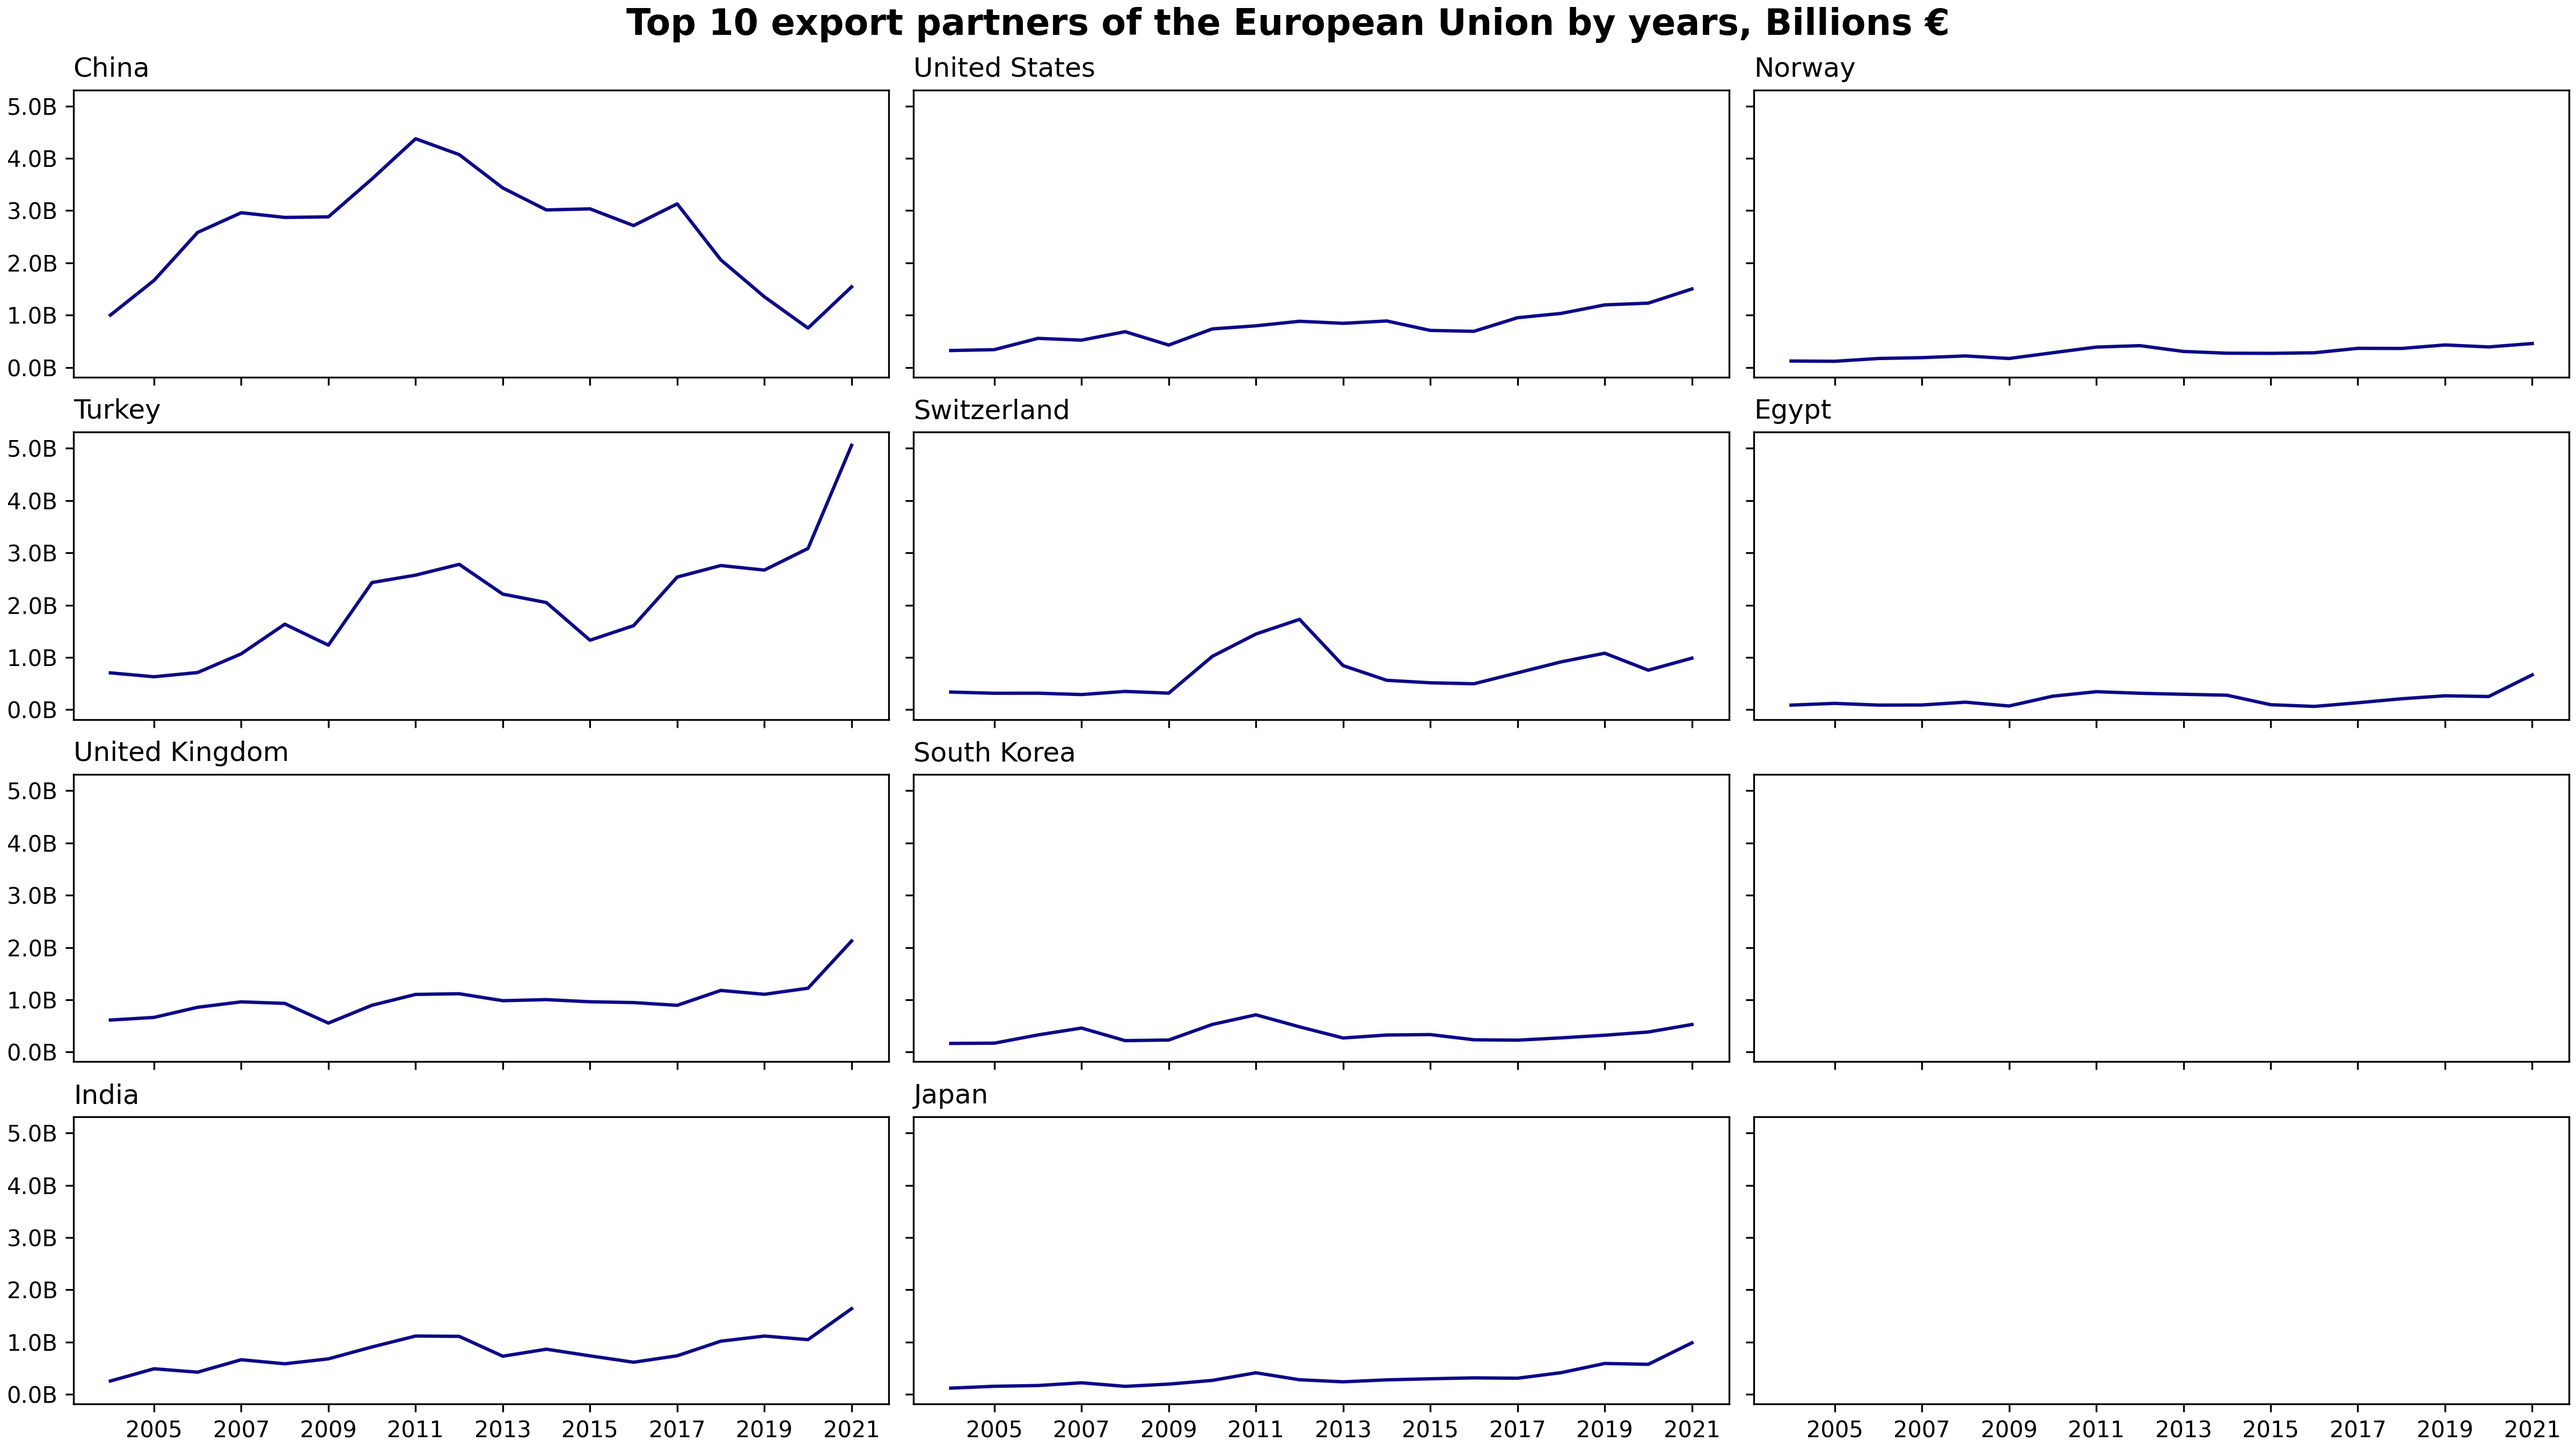
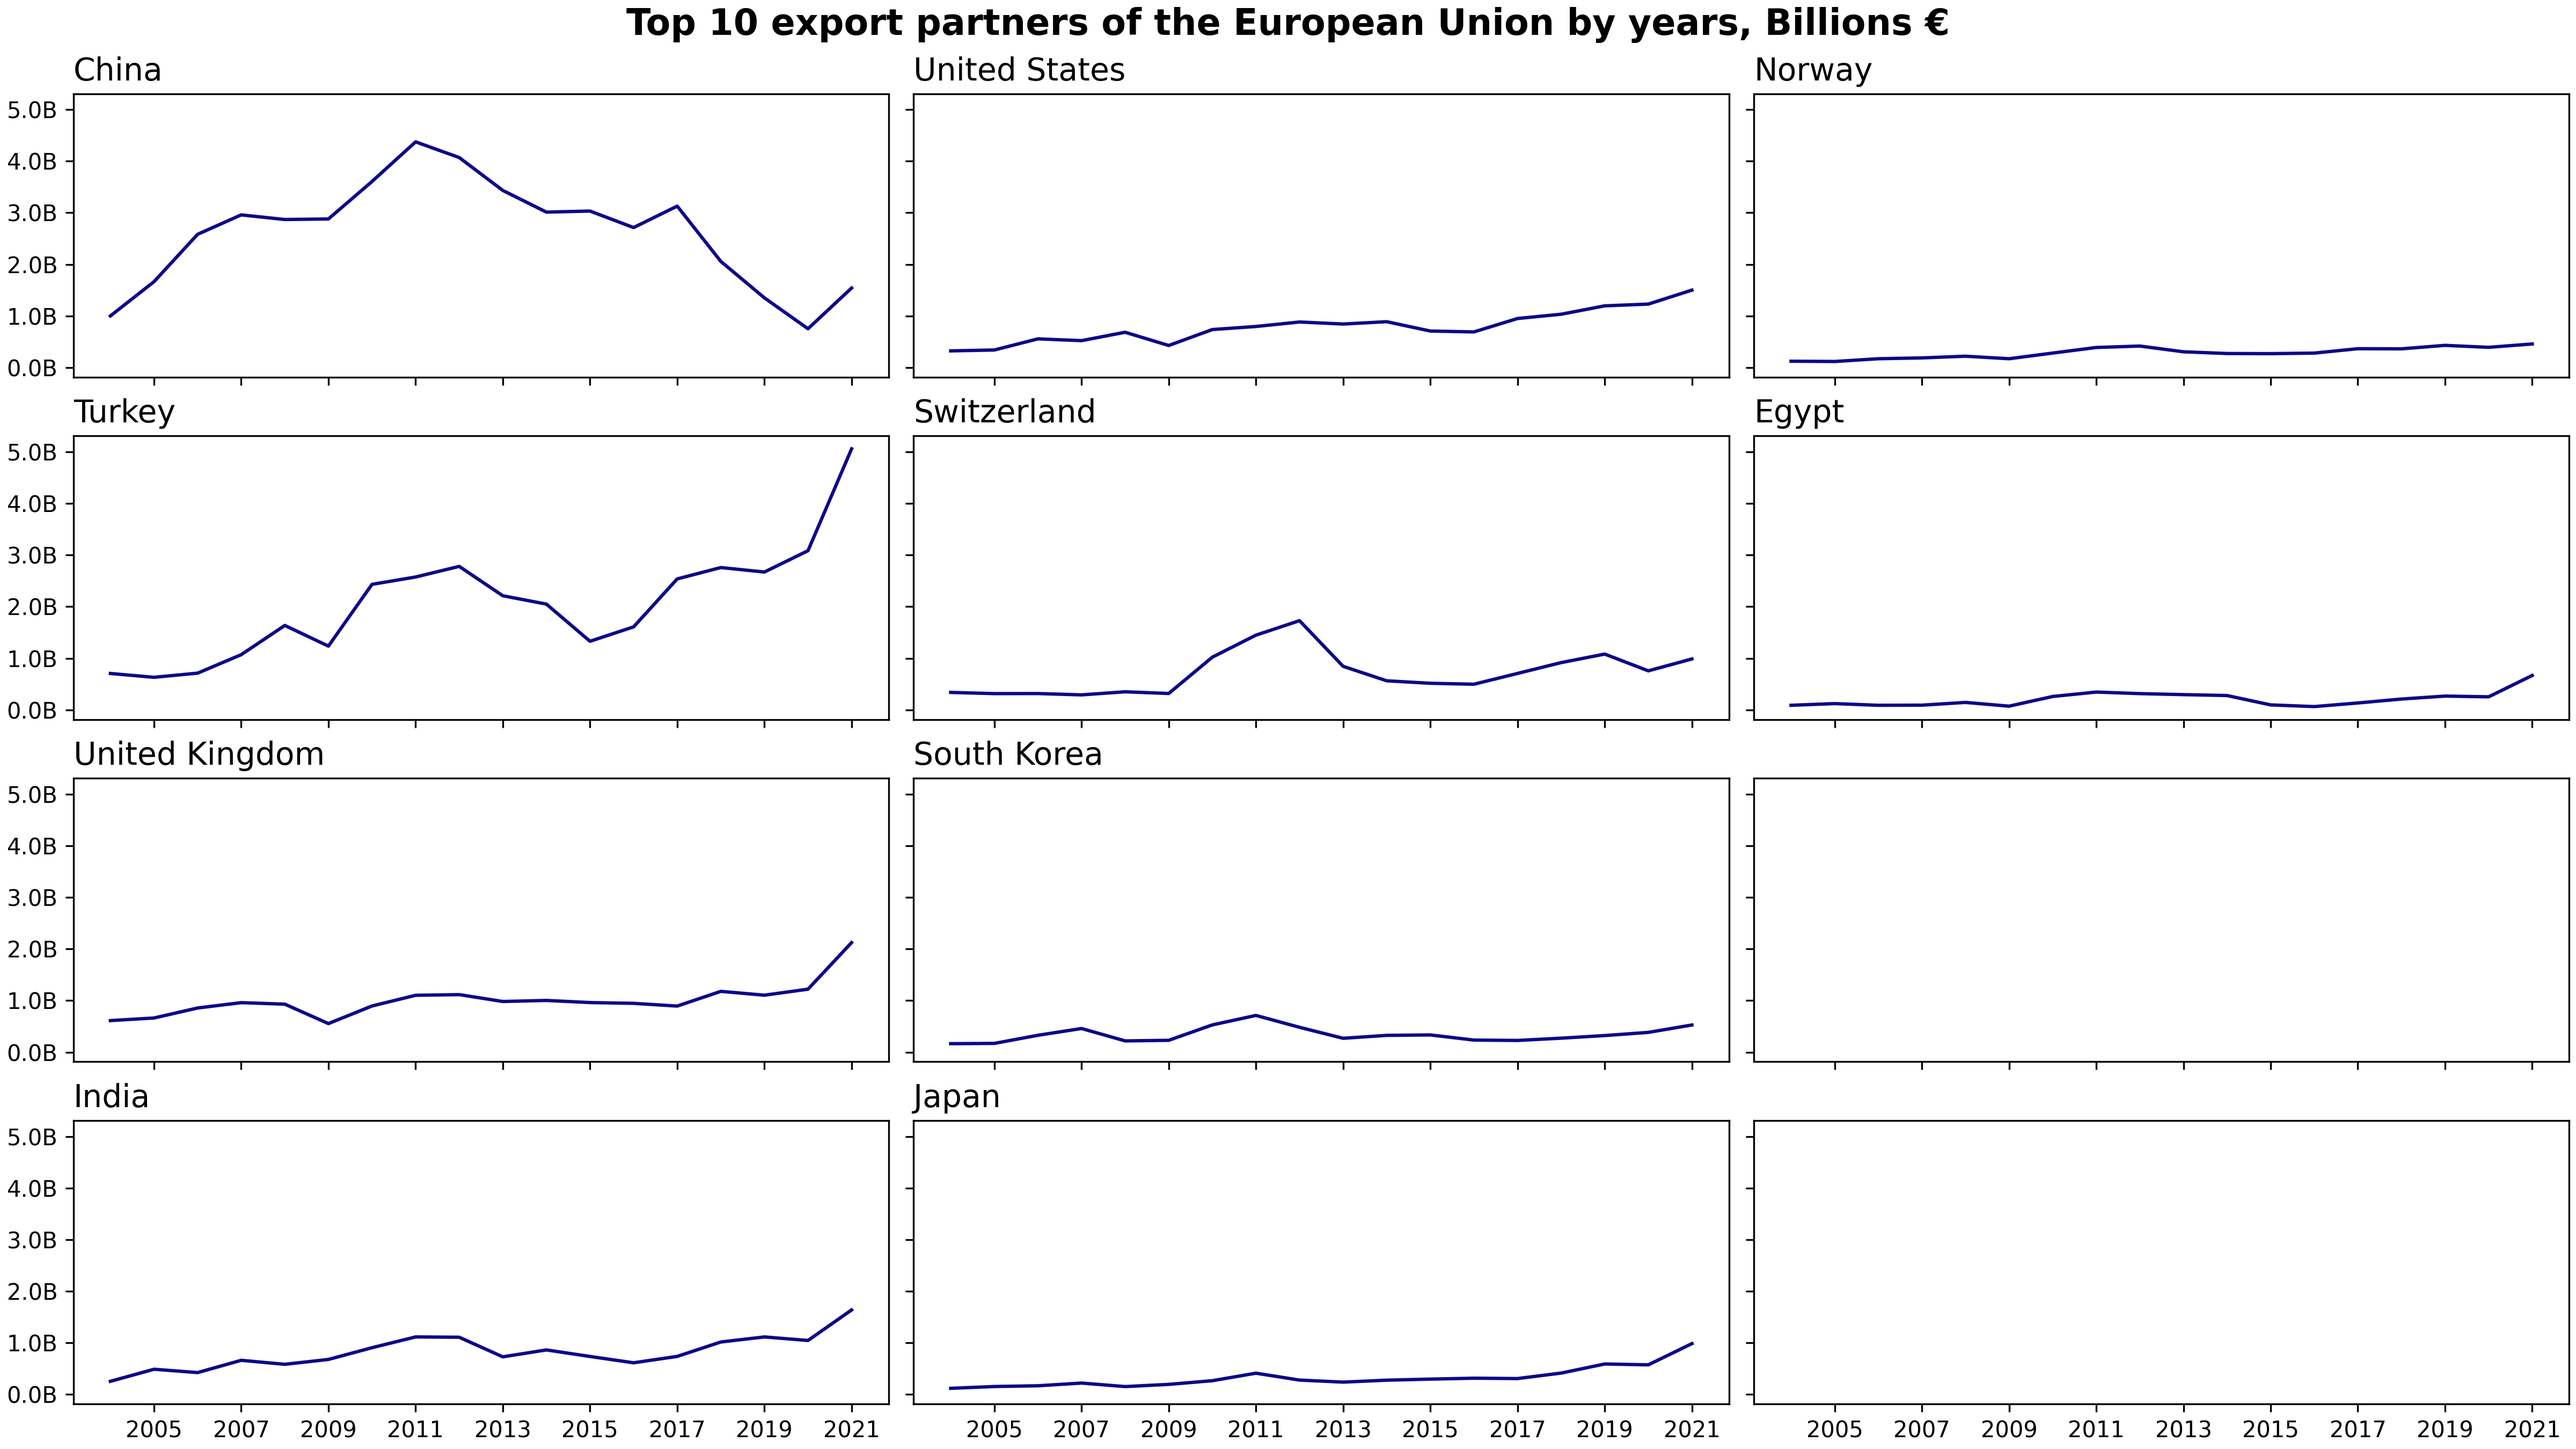
Change font size

diff --git a/scripts/visual_top_n_sum_export_partners_of_country_by_years.py b/scripts/visual_top_n_sum_export_partners_of_country_by_years.py
@@ -29,7 +29,7 @@ for i in range(0, num_partners):
     partner_data = top_n_eu_export[(top_n_eu_export.loc[:, 'partner_label'] == partner)]
     years = partner_data['time_period']
     axs[i % num_axs_y, i // num_axs_y].plot(years, partner_data['thousand_euros'], color=cmap(0))
-    axs[i % num_axs_y, i // num_axs_y].set_title(partner, loc="left", fontfamily='sans-serif')
+    axs[i % num_axs_y, i // num_axs_y].set_title(partner, loc="left", fontfamily='sans-serif', fontsize=14)
     plt.xticks(years[1:len(years):2], fontfamily='sans-serif')
     axs[i % num_axs_y, i // num_axs_y].yaxis.set_major_formatter(FuncFormatter(to_billions))
 
